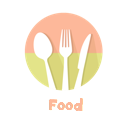
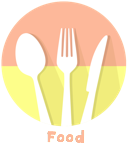
類別按鈕微調

diff --git a/TravelWithMe/SelectTypeViewController.m b/TravelWithMe/SelectTypeViewController.m
@@ -80,16 +80,22 @@
     [_foodBtn setBackgroundColor:[UIColor clearColor]];
     [_foodBtn setImage:[UIImage imageNamed:@"food-icon"] forState:UIControlStateNormal];
     [_foodBtn addTarget:self action:@selector(foodBtnPressed:) forControlEvents:UIControlEventTouchUpInside];
+    [_foodBtn setContentHorizontalAlignment:UIControlContentHorizontalAlignmentFill];
+    [_foodBtn setContentVerticalAlignment:UIControlContentVerticalAlignmentFill];
     [self.view addSubview:_foodBtn];
     
     _landscapeBtn = [[UIButton alloc] initWithFrame:CGRectMake(LANSCAPE_BTN_CGRECTMAKE)];
     [_landscapeBtn setImage:[UIImage imageNamed:@"landscape-icon"] forState:UIControlStateNormal];
     [_landscapeBtn addTarget:self action:@selector(landscapePressed:) forControlEvents:UIControlEventTouchUpInside];
+    [_landscapeBtn setContentHorizontalAlignment:UIControlContentHorizontalAlignmentFill];
+    [_landscapeBtn setContentVerticalAlignment:UIControlContentVerticalAlignmentFill];
     [self.view addSubview:_landscapeBtn];
     
     _peopleBtn = [[UIButton alloc] initWithFrame:CGRectMake(PEOPLE_BTN_CGRECTMAKE)];
     [_peopleBtn setImage:[UIImage imageNamed:@"people-icon"] forState:UIControlStateNormal];
     [_peopleBtn addTarget:self action:@selector(peoplePressed:) forControlEvents:UIControlEventTouchUpInside];
+    [_peopleBtn setContentHorizontalAlignment:UIControlContentHorizontalAlignmentFill];
+    [_peopleBtn setContentVerticalAlignment:UIControlContentVerticalAlignmentFill];
     [self.view addSubview:_peopleBtn];
 }
 

diff --git a/TravelWithMe/TWMDefine.h b/TravelWithMe/TWMDefine.h
@@ -86,9 +86,9 @@
 //地圖ADD按鈕位置//
 #define MAP_FLAT_BTN_CGRECTMAKE self.view.frame.size.width/2 - 15, self.view.frame.size.height - 100, 30, 30
 //類別按鈕初始位置
-#define FOOT_BTN_CGRECTMAKE self.view.frame.size.width/2 - 40, self.view.frame.size.height - 150, 100, 100
-#define LANSCAPE_BTN_CGRECTMAKE self.view.frame.size.width/2 - 40, self.view.frame.size.height - 150, 100, 100
-#define PEOPLE_BTN_CGRECTMAKE self.view.frame.size.width/2 - 40, self.view.frame.size.height - 150, 100, 100
+#define FOOT_BTN_CGRECTMAKE self.view.frame.size.width/2 - 40, self.view.frame.size.height - 150, 90, 105
+#define LANSCAPE_BTN_CGRECTMAKE self.view.frame.size.width/2 - 40, self.view.frame.size.height - 150, 90, 105
+#define PEOPLE_BTN_CGRECTMAKE self.view.frame.size.width/2 - 40, self.view.frame.size.height - 150, 90, 105
 //類別按鈕動態移動結束位置
 #define FOOD_BTN_SNAP_BEHAVIOR_CGPOINT self.view.frame.size.width/2, self.view.frame.size.height/2 - 50
 #define LANSCAPE_BTN_SNAP_BEHAVIOR_CGPOINT self.view.frame.size.width/2 - 110, self.view.frame.size.height/2 - 25

diff --git a/TravelWithMe/MapViewController.m b/TravelWithMe/MapViewController.m
@@ -391,7 +391,7 @@
 // 模擬點下大頭針的方法 可跳轉至PO文畫面
 -(void) buttonPressed:(id)sender{
    
-   NSLog(@"extraInfo:%@",[sender superview]);
+   //NSLog(@"extraInfo:%@",[sender superview]);
    
    UIAlertController *alert=[UIAlertController alertControllerWithTitle:nil message:@"目前沒有資訊" preferredStyle:UIAlertControllerStyleAlert];
    UIAlertAction *ok =[UIAlertAction actionWithTitle:@"ok" style:UIAlertActionStyleDefault handler:nil];
